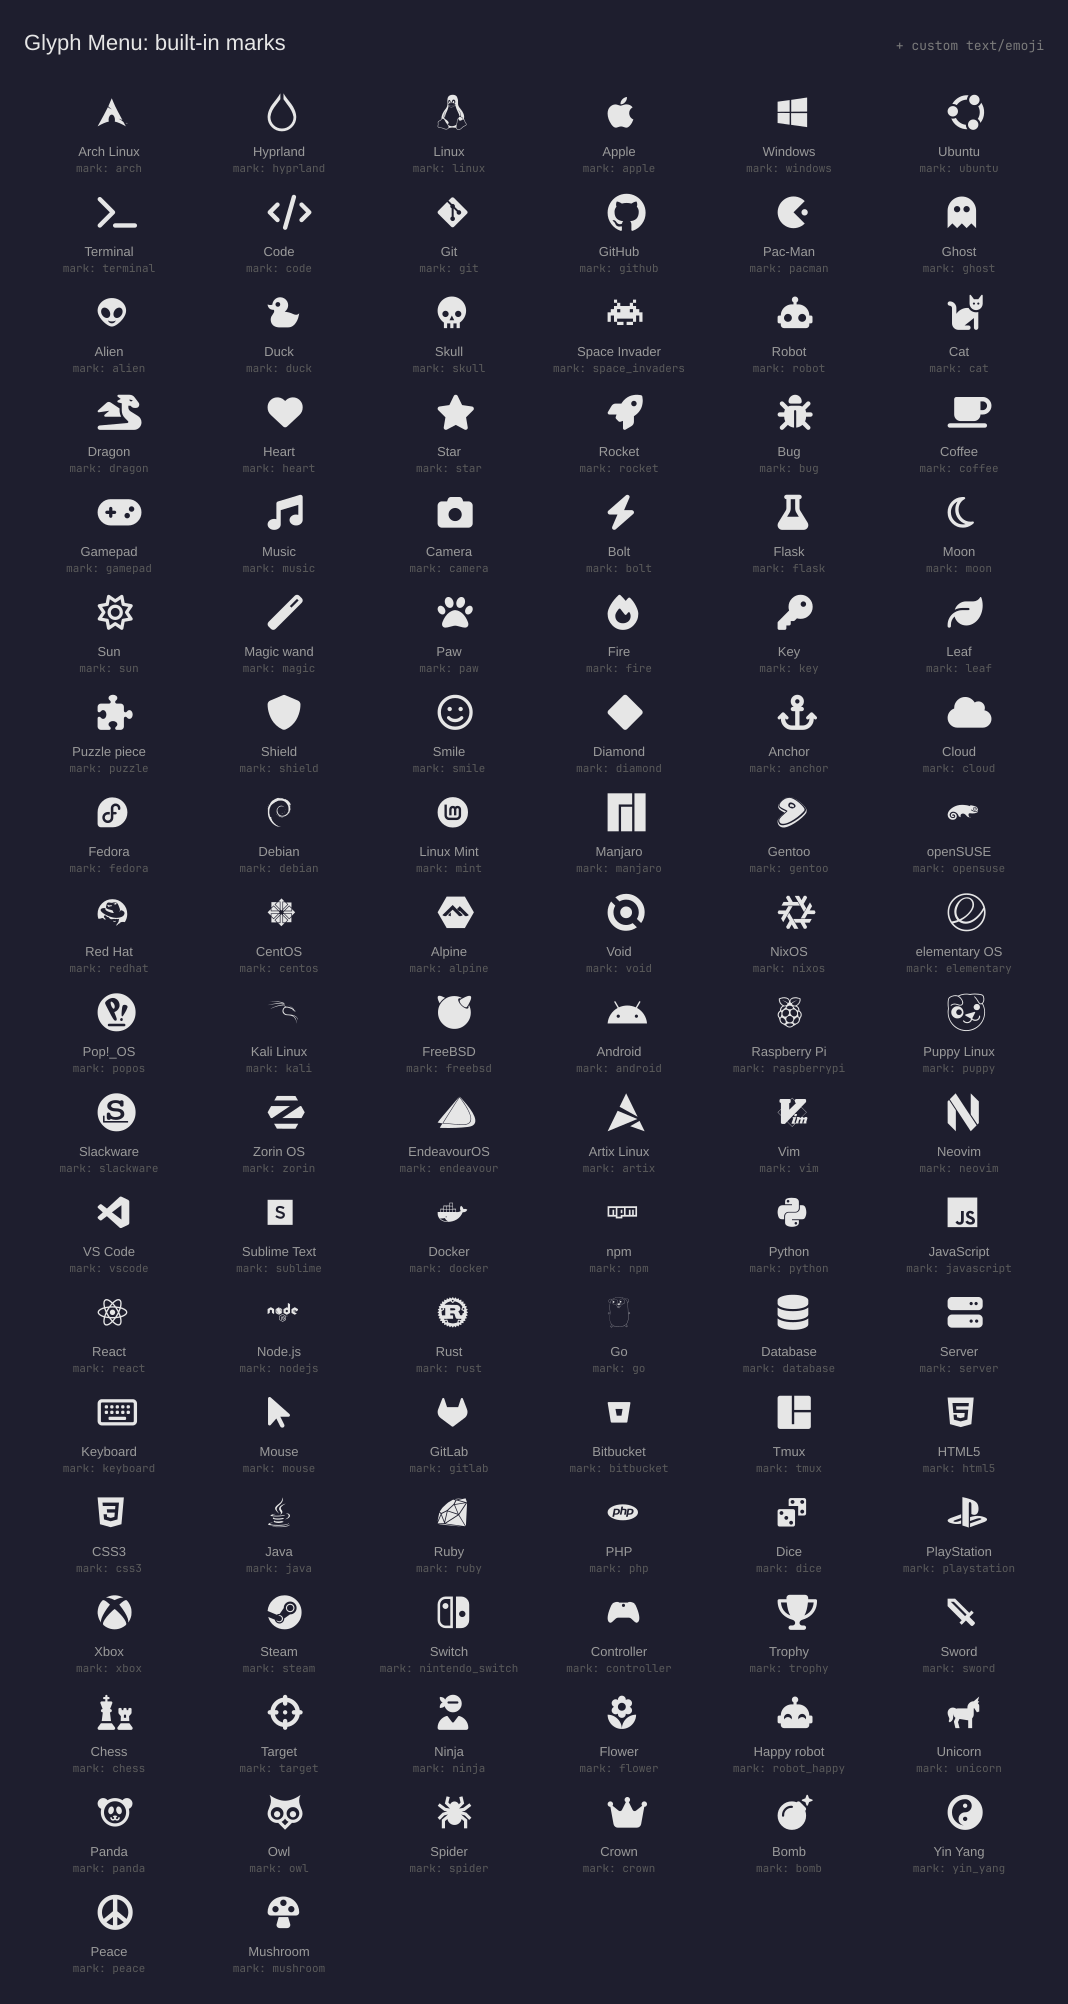
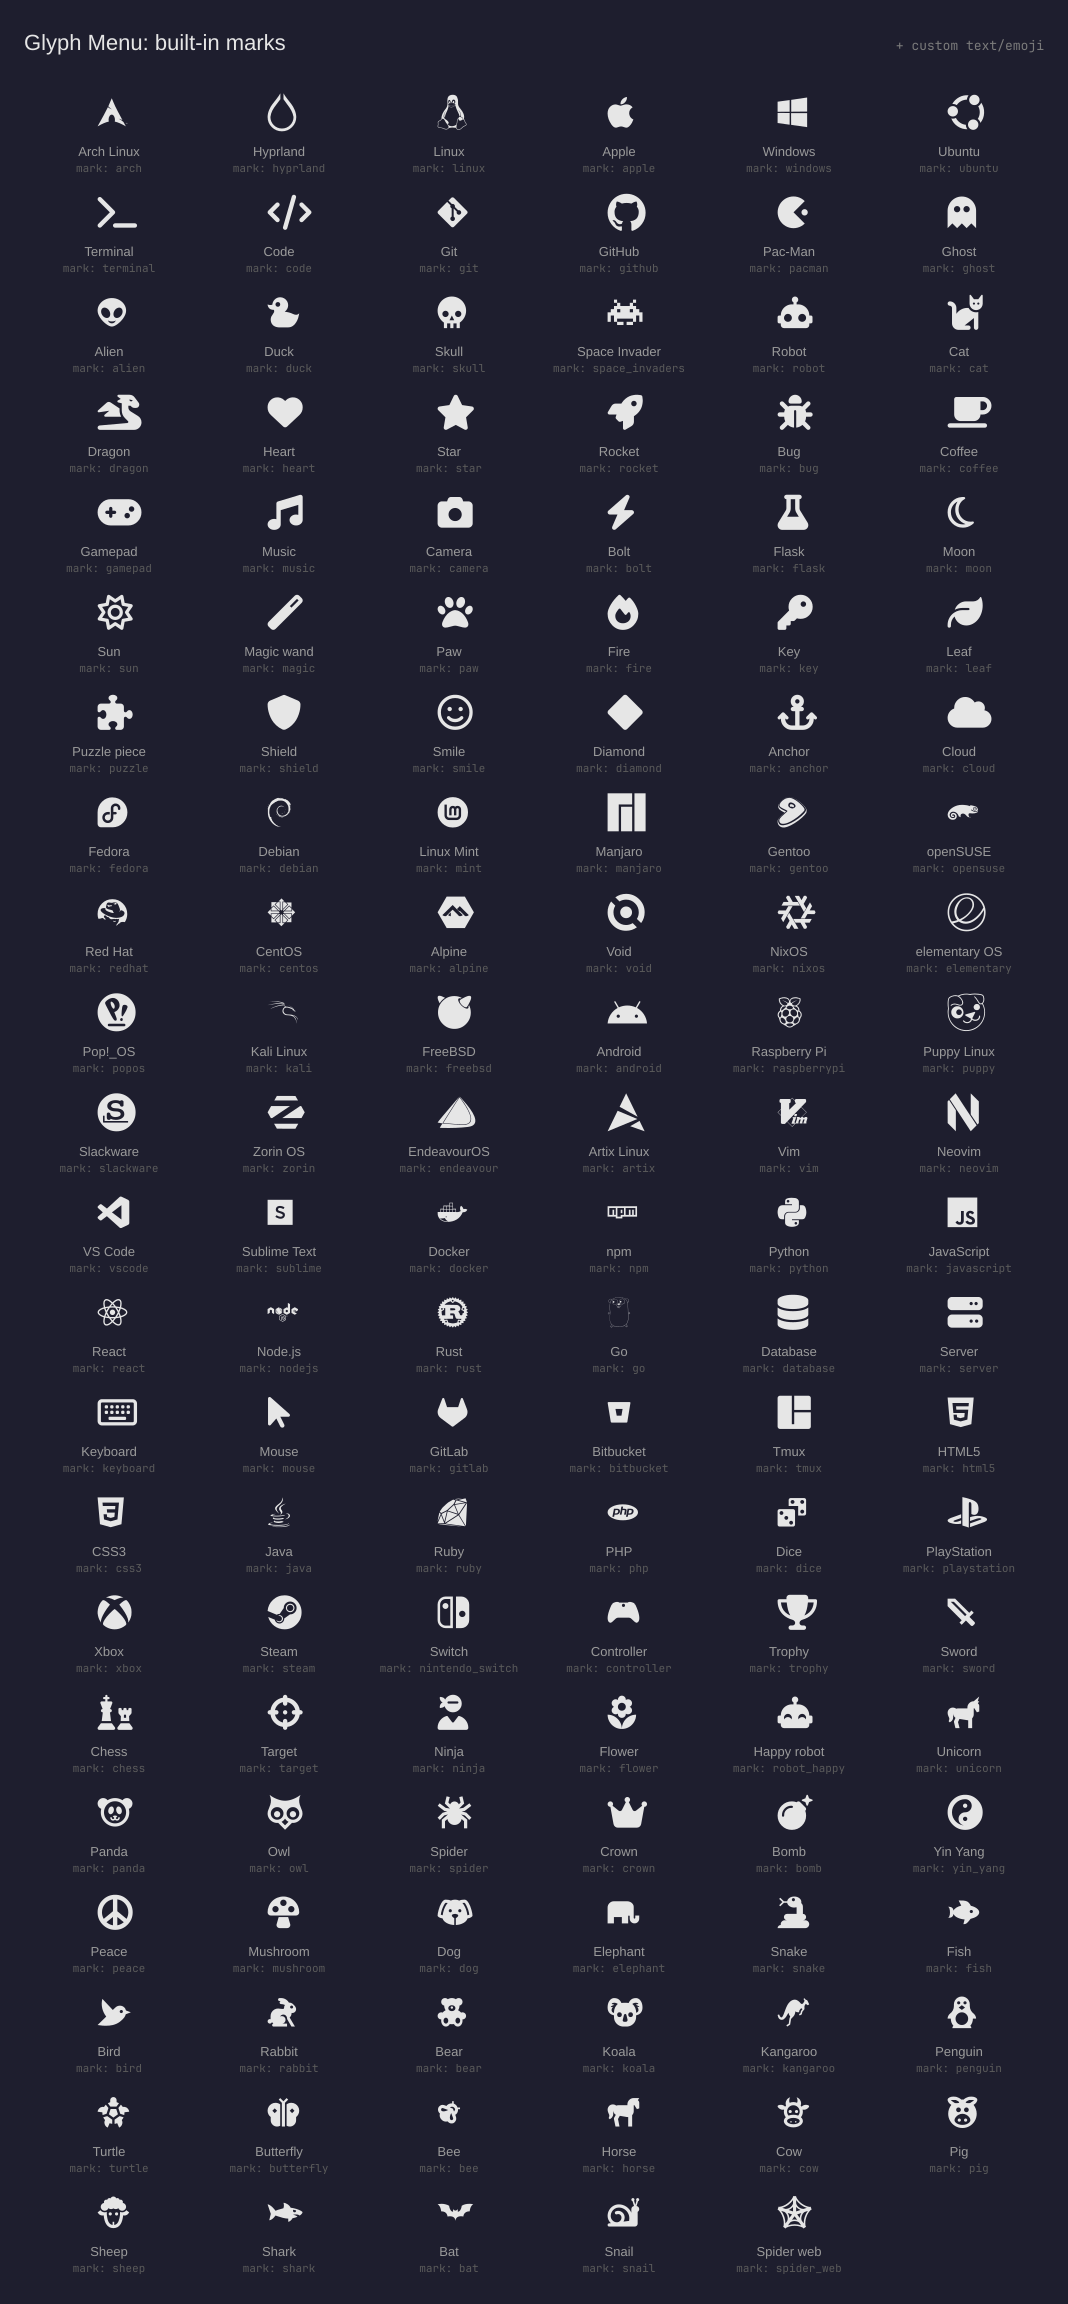
Add 21 more animal glyphs
Same sourcing as the previous expansion: pulled from the public Nerd
Fonts index by category, verified against the installed font.

diff --git a/Glyphs.js b/Glyphs.js
@@ -128,7 +128,30 @@ function glyphs() {
     { id: "bomb", label: "Bomb", code: "f1e2", set: "fa" },
     { id: "yin_yang", label: "Yin Yang", code: "eee9", set: "fa" },
     { id: "peace", label: "Peace", code: "eed6", set: "fa" },
-    { id: "mushroom", label: "Mushroom", code: "f07df", set: "md" }
+    { id: "mushroom", label: "Mushroom", code: "f07df", set: "md" },
+
+    // More animals
+    { id: "dog", label: "Dog", code: "f0a43", set: "md" },
+    { id: "elephant", label: "Elephant", code: "f07c6", set: "md" },
+    { id: "snake", label: "Snake", code: "f150e", set: "md" },
+    { id: "fish", label: "Fish", code: "f023a", set: "md" },
+    { id: "bird", label: "Bird", code: "f15c6", set: "md" },
+    { id: "rabbit", label: "Rabbit", code: "f0907", set: "md" },
+    { id: "bear", label: "Bear", code: "f18fb", set: "md" },
+    { id: "koala", label: "Koala", code: "f173f", set: "md" },
+    { id: "kangaroo", label: "Kangaroo", code: "f1558", set: "md" },
+    { id: "penguin", label: "Penguin", code: "f0ec0", set: "md" },
+    { id: "turtle", label: "Turtle", code: "f0cd7", set: "md" },
+    { id: "butterfly", label: "Butterfly", code: "f1589", set: "md" },
+    { id: "bee", label: "Bee", code: "f0fa1", set: "md" },
+    { id: "horse", label: "Horse", code: "f15bf", set: "md" },
+    { id: "cow", label: "Cow", code: "f019a", set: "md" },
+    { id: "pig", label: "Pig", code: "f0401", set: "md" },
+    { id: "sheep", label: "Sheep", code: "f0cc6", set: "md" },
+    { id: "shark", label: "Shark", code: "f18ba", set: "md" },
+    { id: "bat", label: "Bat", code: "f0b5f", set: "md" },
+    { id: "snail", label: "Snail", code: "f1677", set: "md" },
+    { id: "spider_web", label: "Spider web", code: "f0bca", set: "md" }
   ]
 }
 

diff --git a/README.md b/README.md
@@ -4,9 +4,9 @@ A drop-in replacement for the built-in `omarchy.menu` bar button that lets you
 pick the mark it shows instead of the fixed Omarchy glyph. Click behaviour is
 unchanged: left click opens the Omarchy menu, right click opens a terminal.
 
-Choose from 100+ built-in Nerd Font glyphs (distro logos, coding tools, gaming
-icons, a Pac-Man, a ghost, a dragon, and more), or set any custom text, pasted
-glyph, or emoji.
+Choose from 130+ built-in Nerd Font glyphs (distro logos, coding tools, gaming
+icons, animals, a Pac-Man, a ghost, a dragon, and more), or set any custom
+text, pasted glyph, or emoji.
 
 ## Available marks
 
